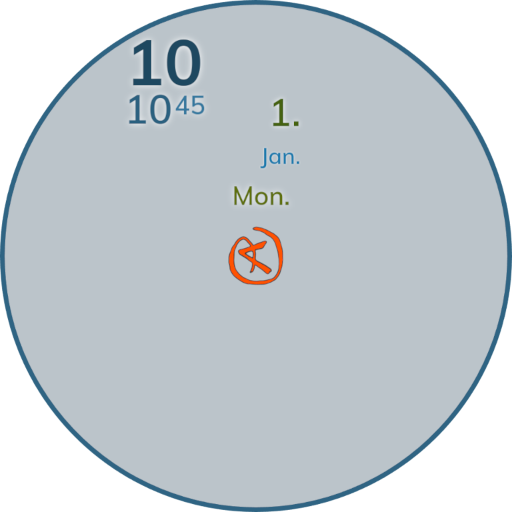
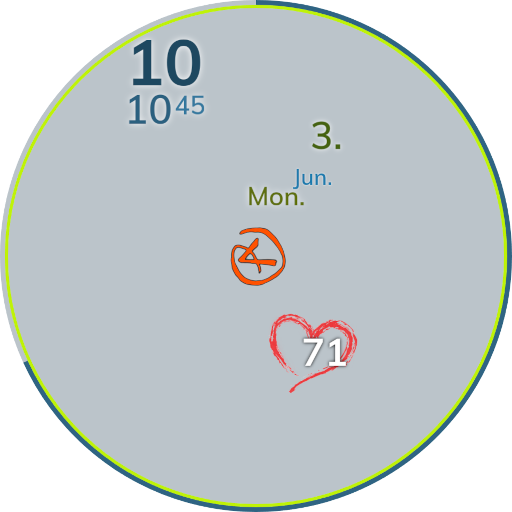
[1717388689] updates

diff --git a/README.md b/README.md
@@ -78,7 +78,7 @@ all the rules of three, or even the sine and cosine positionings, etc.)! **;)~**
 | Key         | Value                                                                                                             |
 | ----------: | :---------------------------------------------------------------------------------------------------------------- |
 | Created     | **11/2023**                                                                                                       |
-| Updated     | **2024-05-08**                                                                                                    |
+| Updated     | **2024-06-03**                                                                                                    |
 | Website     | [`zIFEz0CL3d`](https://www.facer.io/watchface/zIFEz0CL3d?watchModel=fossilqmarshal)                               |
 | Inspector   | [`zIFEz0CL3d`](https://www.facer.io/watchface/zIFEz0CL3d/inspect)                                                 |
 | Preview     | <a href="images/Cake Uno.png"><img src="images/Cake Uno.webp" alt="Cake Uno" /></a>                               |
@@ -86,11 +86,13 @@ all the rules of three, or even the sine and cosine positionings, etc.)! **;)~**
 
 ##### Details
 - [x] With a design smth. similar to "one hand" watches.. (but..)
-- [x] The digital time rotates with the analog (**24h**) clock (sine and cosine positioned)
-- [x] The inner digital values rotate with their own progress(es) in time
-- [x] My favicon in the middle rotates with compass
-- [x] And it's opacity is shrinking to the watch battery
-- [x] A compass around the clock (blue progress)
+- [x] The digital time rotates with the analog (24h!) clock (sine and cosine positioned)
+- [x] The weekday on the innerst sine/cosine circle rotates with the progress of the week
+- [x] The day in month and the month name rotate by the progress of the month
+- [x] The (sine animated) heart icon with average beat rate rotates with the year's progress
+- [x] The outer progress is the compass
+- [x] The progress directly under the compass is the watch battery level
+- [x] My favicon rotates with the compass and becomes more transparent with shrinking battery level
 
 #### **`Cake Binary`**
 | Key         | Value                                                                                                             |
